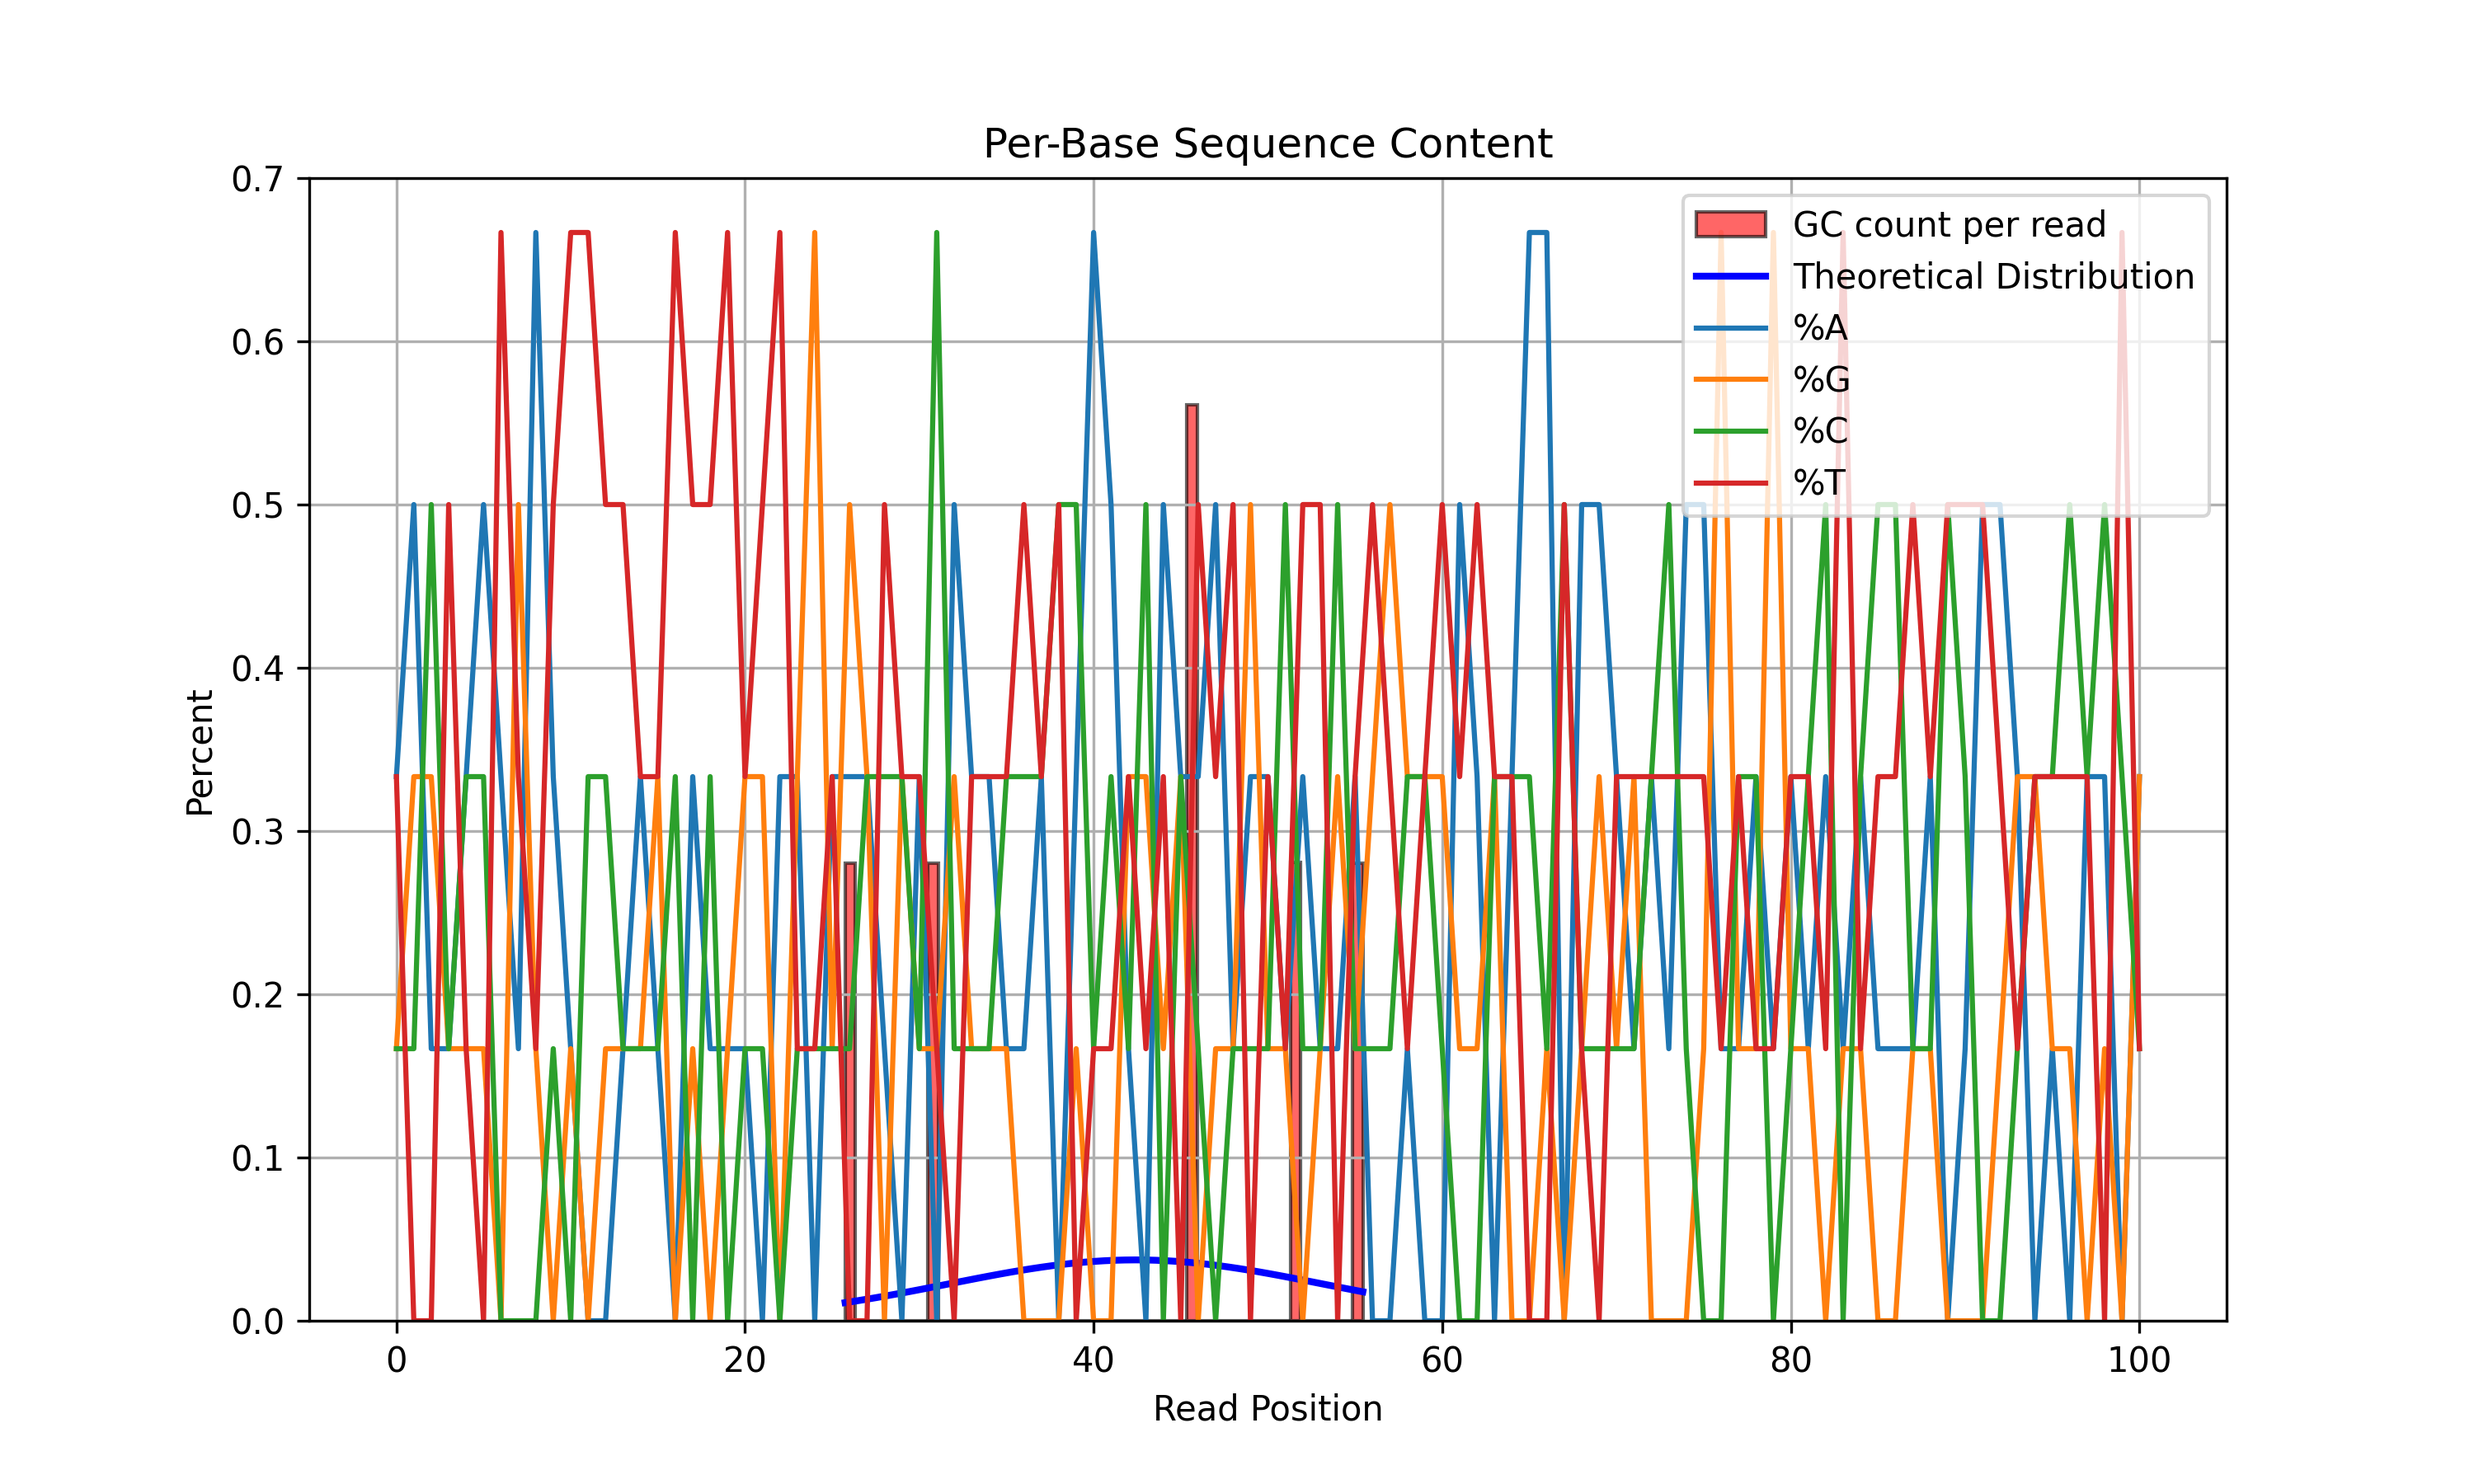
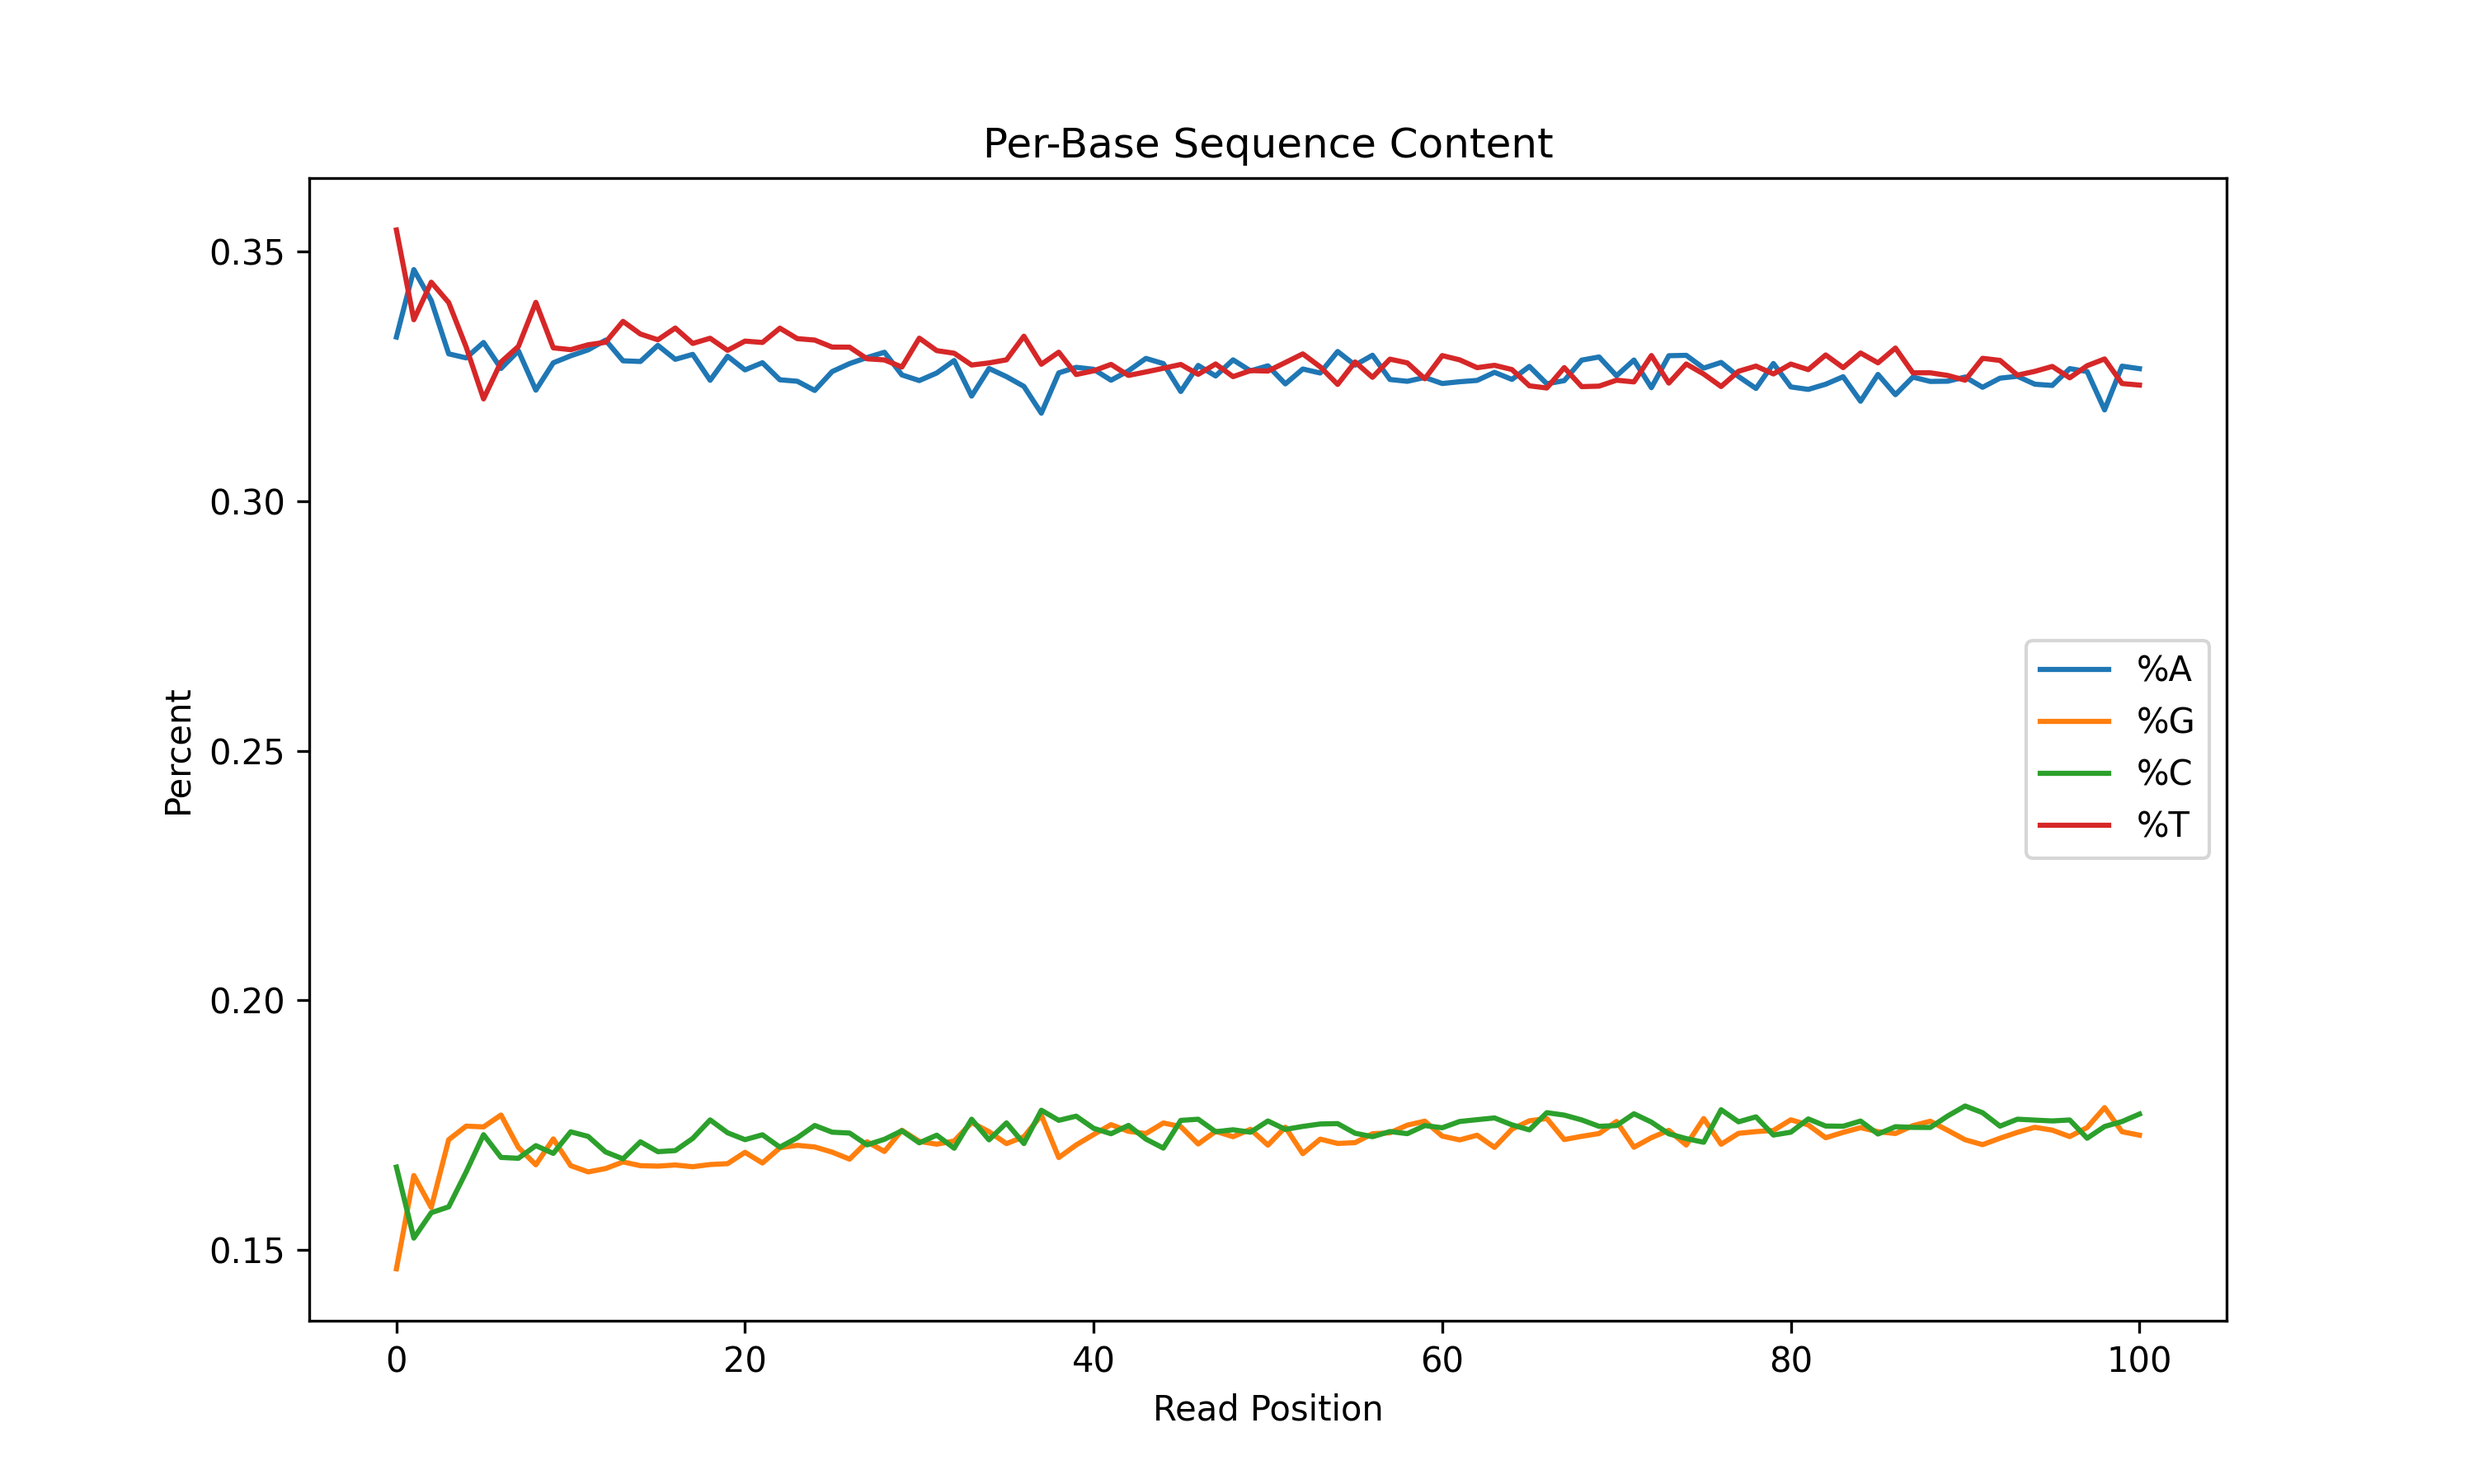
streamlined phastats.py

diff --git a/phastatsReport.html b/phastatsReport.html
@@ -1,0 +1,9 @@
+<html>
+  <body>
+    <h1>Phastats Report</h1>
+    <img src="plots/Per-base_sequnce_content.png" alt="plot" />
+    <img src="plots/gc-distribution.png" alt="plot" />
+    <img src="plots/length_distribution.png" alt="plot" />
+    <img src="plots/quality-distribution.png" alt="plot" />
+  </body>
+</html>

diff --git a/phastats.py b/phastats.py
@@ -7,20 +7,14 @@ import scipy.stats as stats
 import os
 import pandas as pd
 
-def getLengthAndQuality(file_path):
-    lengths = []
-    quality_scores = []
-    with open(file_path, "r") as handle:
-        while True:
-            header = handle.readline().strip()
-            if not header:
-                break
-            sequence = handle.readline().strip()
-            plus = handle.readline().strip()
-            quality = handle.readline().strip()
-            lengths.append(len(sequence))
-            quality_scores.extend([ord(q) - 33 for q in quality])  # Convert ASCII quality scores to Phred scores
-    return lengths, quality_scores
+def getandPlotLengths(sequenceList):
+    lengths = [len(sequence) for sequence in sequenceList]
+    return plot_length_distribution(lengths)
+
+def getandPlotQuality(qualityList):
+    quality_scores = [ord(q) - 33 for q in qualityList[0]]  # Convert ASCII quality scores to Phred scores
+    return plot_quality_distribution(quality_scores)
+
 
 def plot_length_distribution(lengths):
     plt.figure(figsize=(9, 5))
@@ -36,7 +30,7 @@ def plot_length_distribution(lengths):
 def plot_quality_distribution(quality_scores):
     plt.figure(figsize=(9, 5))
     plt.hist(quality_scores, bins=range(0, 41), color='#008000', alpha=0.5, edgecolor='black')  # Green color
-    plt.title('Quality Distribution of Sequences', fontsize=16, fontweight='bold')
+    plt.title('Quality Distribution of Bases', fontsize=16, fontweight='bold')
     plt.xlabel('Quality Score (Phred Score)', fontsize=13)
     plt.ylabel('Frequency', fontsize=13)
     plt.xticks(fontsize=12)
@@ -44,12 +38,7 @@ def plot_quality_distribution(quality_scores):
     plt.grid(True, linestyle='dotted')
     plt.savefig("plots/quality-distribution.png", dpi=300)
 
-def getLengthQualityDistribution(file_path):
-    lengths, quality_scores = getLengthAndQuality(file_path)
-    return plot_length_distribution(lengths), plot_quality_distribution(quality_scores)
-
-def getGCDistribution(file_path):
-    total_sequences, poor_quality_sequences, total_length, gc_count, gc_contents = parse_fastq(file_path)
+def getandPlotGCDistribution(gc_count, total_length, gc_contents):
     gc_content = calculate_gc_content(gc_count, total_length)
 
     # print_statistics(file_path, total_sequences, poor_quality_sequences, total_length, gc_content)
@@ -61,31 +50,35 @@ def parse_fastq(file):
     total_length = 0
     gc_count = 0
     gc_contents = []
+    sequences = []
+    qualitylines = []
+    i = 0;
 
     with open(file, 'r') as f:
         while True:
-            # Read the four lines of a FASTQ record
+            # Read the four lines of a FASTQ record, create a list of sequences and quality lines
             identifier = f.readline().strip()
             if not identifier:
                 break
-            sequence = f.readline().strip()
+            sequences.append(f.readline().strip())
             plus = f.readline().strip()
-            quality = f.readline().strip()
+            qualitylines.append(f.readline().strip())
 
             total_sequences += 1
-            total_length += len(sequence)
-            gc_count += sequence.count('G') + sequence.count('C')
+            total_length += len(sequences[i])
+            gc_count += sequences[i].count('G') + sequences[i].count('C')
             
             # Calculate GC content for the sequence
-            sequence_gc_count = sequence.count('G') + sequence.count('C')
-            sequence_gc_content = (sequence_gc_count / len(sequence)) * 100
+            sequence_gc_count = sequences[i].count('G') + sequences[i].count('C')
+            sequence_gc_content = (sequence_gc_count / len(sequences[i])) * 100
             gc_contents.append(sequence_gc_content)
 
             # Check if the sequence is flagged as poor quality
-            if any(char < '!' for char in quality):  # Placeholder for poor quality check
+            if any(char < '!' for char in qualitylines[i]):  # Placeholder for poor quality check
                 poor_quality_sequences += 1
+            i += 1
 
-    return total_sequences, poor_quality_sequences, total_length, gc_count, gc_contents
+    return total_sequences, poor_quality_sequences, total_length, sequences, qualitylines, gc_count, gc_contents
 
 def calculate_gc_content(gc_count, total_length):
     return (gc_count / total_length) * 100 if total_length > 0 else 0
@@ -122,13 +115,10 @@ def plot_gc_distribution(gc_contents):
     plt.legend(loc='upper right')
     plt.grid(True)
     plt.savefig("plots/gc-distribution.png", dpi=300)
+    plt.clf()
 
-def getPerBaseSequenceContent(filename):
-    # read in file and create a list of strings, each string being every
-    # 4th line in the file, starting from the second line
-    with open(filename, 'r') as file:
-        lines = file.readlines()
-        lines = lines[1::4]
+def getandPlotPerBaseSequenceContent(lines):
+    # Read the FASTQ file and calculate the percent of each base per read
     df = pd.DataFrame(columns=['%A', '%G', '%C', '%T'])
     max_length = max(len(line) for line in lines)
     for i in range(max_length):
@@ -139,8 +129,6 @@ def getPerBaseSequenceContent(filename):
         total = A + G + C + T
         if total > 0:  # avoid division by zero
             df.loc[i] = [A/total, G/total, C/total, T/total]
-    print("Number of rows: ", df.shape[0])
-
     # plot the percent of each base per read. y axis is percent, and 
     # x axis is read position, or the row numnber
     # write the plot to an html file
@@ -153,24 +141,26 @@ def getPerBaseSequenceContent(filename):
     plt.title('Per-Base Sequence Content')
     plt.legend()
     plt.savefig("plots/Per-base_sequnce_content.png", dpi=300)
+    plt.clf()
 
 
 def main():
     parser = argparse.ArgumentParser(description='Conduct fastq analysis and plot the results.')
     parser.add_argument('input_file', type=str, help='Path to the input FASTQ file.')
-    parser.add_argument('output_file', type=str, help='Prefix for the output plot filenames.')
+    # parser.add_argument('output_file', type=str, help='Prefix for the output plot filenames.')
     args = parser.parse_args()
 
+    # Parse the FASTQ file and calculate statistics
+    total_sequences, poor_quality_sequences, total_length, sequences, qualitylines, gc_count, gc_contents = parse_fastq(args.input_file)
     # Generage plot for length and quality distribution
-    getLengthQualityDistribution(args.input_file)
-
+    getandPlotLengths(sequences)
+    getandPlotQuality(qualitylines)
+    
     # Generate plot for gc distribution. Not printing statistics for now
-    getGCDistribution(args.input_file)
+    getandPlotGCDistribution(gc_count, total_length, gc_contents)
 
     # Generate plot for perbase sequence content
-    getPerBaseSequenceContent(args.input_file)
-    with (open("sequence.html", "w")) as f:
-        f.write("<html><body><img src='plots/Per-base_sequnce_content.png' alt='plot'><img src='plots/gc-distribution.png' alt='plot'><img src='plots/length_distribution.png' alt='plot'><img src='plots/quality-distribution.png' alt='plot'></body></html>")
+    getandPlotPerBaseSequenceContent(sequences)
 
 
 
